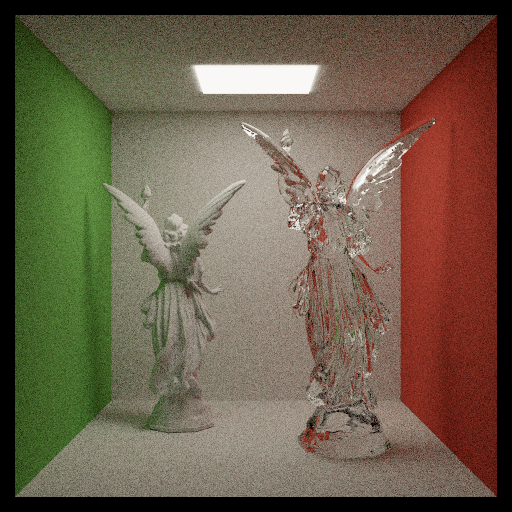
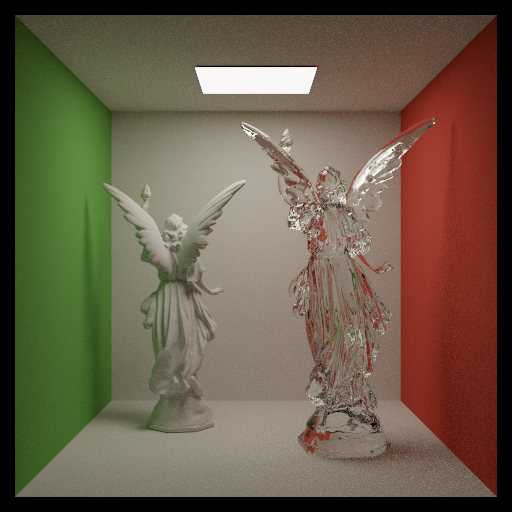
fix: slightly clear lucy
more clear lucy

diff --git a/README.md b/README.md
@@ -75,7 +75,7 @@ macOS：你需要 clang (安装 Xcode commandline tools) + CMake。
 
 - Lucy
 
-命令：`./tdsg_render --scene lucy --integrator path --spp 512`
+命令：`./tdsg_render --scene lucy --integrator path --spp 400`
 <p align="center">
   <img src="assets/lucy.png" width="512"/>
 </p>
